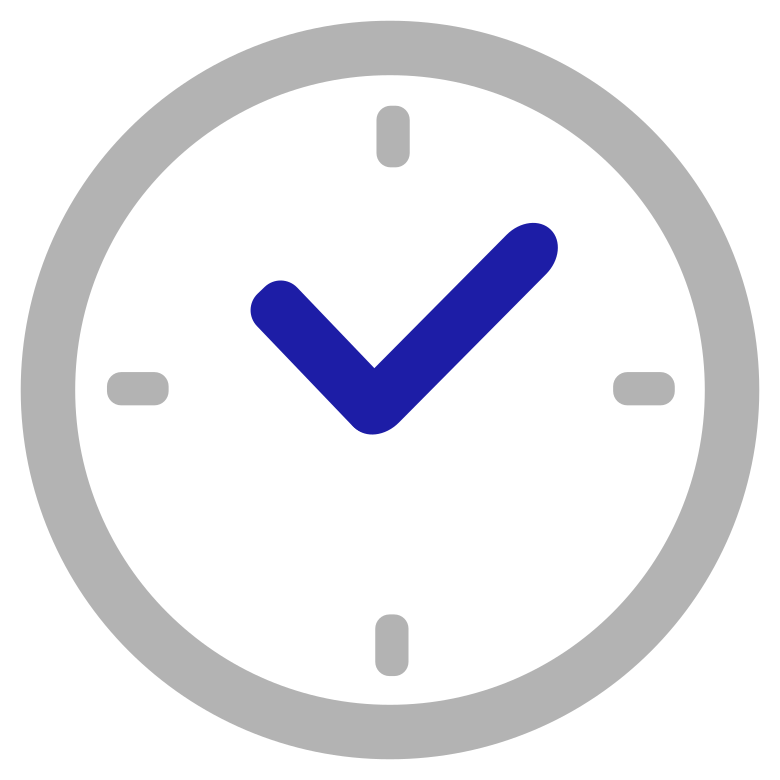
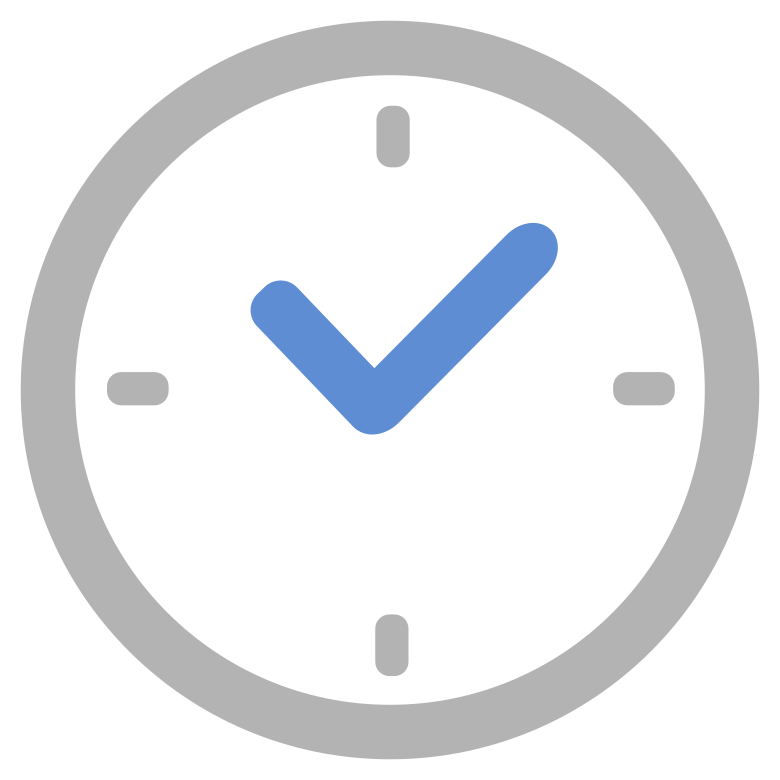
0.6.6

Changed region(s): [[0.3077, 0.2769, 0.7385, 0.5538]]

diff --git a/app/globals.css b/app/globals.css
@@ -125,7 +125,7 @@
 }
 
 .custom-shadow-blue {
-    box-shadow: 0 10px 15px -3px #1d1da6ff, 0 4px 6px -2px whitesmoke;
+    box-shadow: 0 10px 15px -3px #5f8dd3ff, 0 4px 6px -2px whitesmoke;
 }
 
 .custom-shadow-orange {
@@ -133,7 +133,7 @@
 }
 
 .custom-shadow-green {
-    box-shadow: 0 10px 15px -3px #99ed99ff, 0 4px 6px -2px whitesmoke;
+    box-shadow: 0 10px 15px -3px #87deaaff, 0 4px 6px -2px whitesmoke;
 }
 
 

diff --git a/models/ModelColor.js b/models/ModelColor.js
@@ -11,8 +11,8 @@ export const MODEL_COLOR = {
 /*
 
 grey = 808080ff  // b3b3b3ff
-green 99ed99ff
-blue 1d1da6ff 
+green 87deaaff
+blue 5f8dd3ff 
 pink ed9999ff
 orange edc399ff
 purple c399edff
